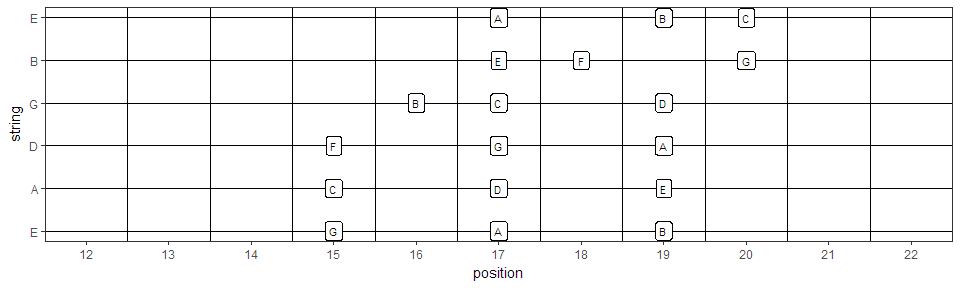
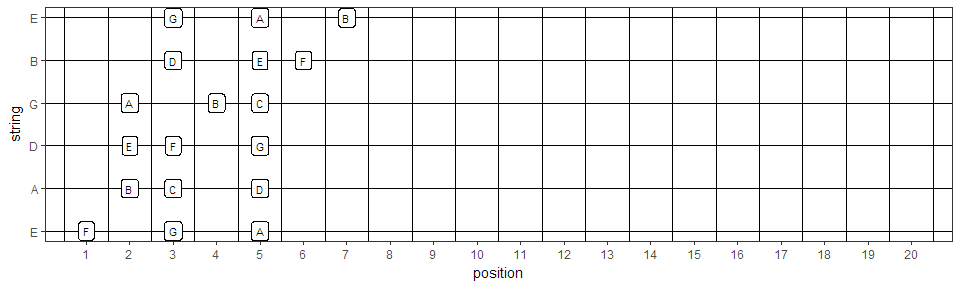
Now with correct enharmonic notation

diff --git a/README.md b/README.md
@@ -30,7 +30,8 @@ Get a note from a given position:
 GetNote(string = 1,position = 3)
 ```
 
-    ## [1] "G"
+    ##   equiv1 equiv2 equiv3
+    ## 8      G     Fx    Abb
 
 Get positions of a given note:
 
@@ -57,7 +58,7 @@ kable(Apositions)
 Plot on a GuitarPlot
 
 ``` r
-GuitarPlot(Apositions, labsize = 0)
+GuitarPlot(Apositions, labsize = 3)
 ```
 
 ![](README_files/figure-markdown_github/unnamed-chunk-3-1.png)
@@ -66,10 +67,19 @@ Get and plot the Ionian mode in C
 
 ``` r
 Ionian3 <- GetMode("C", "Ionian3")
-GuitarPlot(Ionian3, labsize = 3, firstfret = 5, lastfret = 15)
+GuitarPlot(Ionian3, labsize = 3, firstfret = 1, lastfret = 24)
 ```
 
 ![](README_files/figure-markdown_github/unnamed-chunk-4-1.png)
+
+Get and plot the Ionian mode in A\#
+
+``` r
+Ionian3 <- GetMode("A#", "Ionian3")
+GuitarPlot(Ionian3, labsize = 3, firstfret = 1, lastfret = 24)
+```
+
+![](README_files/figure-markdown_github/unnamed-chunk-5-1.png)
 
 Get and plot the Dorian3 mode in D
 
@@ -78,34 +88,34 @@ Dorian3 <- GetMode("D", "Dorian3")
 GuitarPlot(Dorian3, labsize = 3, firstfret = 5, lastfret = 15)
 ```
 
-![](README_files/figure-markdown_github/unnamed-chunk-5-1.png)
+![](README_files/figure-markdown_github/unnamed-chunk-6-1.png)
 
 Get and plot the Phrygian3 mode in E
 
 ``` r
 Phrygian3 <- GetMode("E", "Phrygian3")
-GuitarPlot(Phrygian3, labsize = 3, firstfret = 10, lastfret = 20)
+GuitarPlot(Phrygian3, labsize = 3, firstfret = 1, lastfret = 22)
 ```
 
-![](README_files/figure-markdown_github/unnamed-chunk-6-1.png)
+![](README_files/figure-markdown_github/unnamed-chunk-7-1.png)
 
 Get and plot the Lydian3 mode in F
 
 ``` r
 Lydian3 <- GetMode("F", "Lydian3")
-GuitarPlot(Lydian3, labsize = 3, firstfret = 10, lastfret = 20)
+GuitarPlot(Lydian3, labsize = 3, firstfret = 1, lastfret = 20)
 ```
 
-![](README_files/figure-markdown_github/unnamed-chunk-7-1.png)
+![](README_files/figure-markdown_github/unnamed-chunk-8-1.png)
 
 Get and plot the MixoLydian3 mode in G
 
 ``` r
 MixoLydian3 <- GetMode("G", "MixoLydian3")
-GuitarPlot(MixoLydian3, labsize = 3, firstfret = 12, lastfret = 22)
+GuitarPlot(MixoLydian3, labsize = 3, firstfret = 1, lastfret = 22)
 ```
 
-![](README_files/figure-markdown_github/unnamed-chunk-8-1.png)
+![](README_files/figure-markdown_github/unnamed-chunk-9-1.png)
 
 Get and plot the Aeolian3 mode in A
 
@@ -114,7 +124,7 @@ Aeolian3 <- GetMode("A", "Aeolian3")
 GuitarPlot(Aeolian3, labsize = 3, firstfret = 0, lastfret = 10)
 ```
 
-![](README_files/figure-markdown_github/unnamed-chunk-9-1.png)
+![](README_files/figure-markdown_github/unnamed-chunk-10-1.png)
 
 Get and plot the Locrian3 mode in B
 
@@ -123,16 +133,27 @@ Locrian3 <- GetMode("B", "Locrian3")
 GuitarPlot(Locrian3, labsize = 3, firstfret = 5, lastfret = 15)
 ```
 
-![](README_files/figure-markdown_github/unnamed-chunk-10-1.png)
+![](README_files/figure-markdown_github/unnamed-chunk-11-1.png)
 
 Get positions of all modes starting from a centain mode and tune
 
 ``` r
-Combine <- CombineModes(tune = "C",basemode = "Ionian3", modes = c("Lydian3"))
+# Combine <- CombineModes(tune = "F",basemode = "Lydian3", modes = c("Ionian3"))
+Combine <- CombineModes(tune = "C",basemode = "Ionian3", modes = NULL)
 GuitarPlot(Combine)
 ```
 
-![](README_files/figure-markdown_github/unnamed-chunk-11-1.png)
+![](README_files/figure-markdown_github/unnamed-chunk-12-1.png)
+
+Get positions of all modes starting from a centain mode and tune
+
+``` r
+# Combine <- CombineModes(tune = "F",basemode = "Lydian3", modes = c("Ionian3"))
+Combine <- CombineModes(tune = "F",basemode = "Ionian3", modes = NULL)
+GuitarPlot(Combine)
+```
+
+![](README_files/figure-markdown_github/unnamed-chunk-13-1.png)
 
 Or completely flexible generate any chord or setting in the plot
 
@@ -143,6 +164,4 @@ Ecord <- data.frame(string = c(1,2,3,4,5,6),
 GuitarPlot(Ecord, nfrets = 4, labsize = 4)
 ```
 
-![](README_files/figure-markdown_github/unnamed-chunk-12-1.png)
-
-Ronny
+![](README_files/figure-markdown_github/unnamed-chunk-14-1.png)
